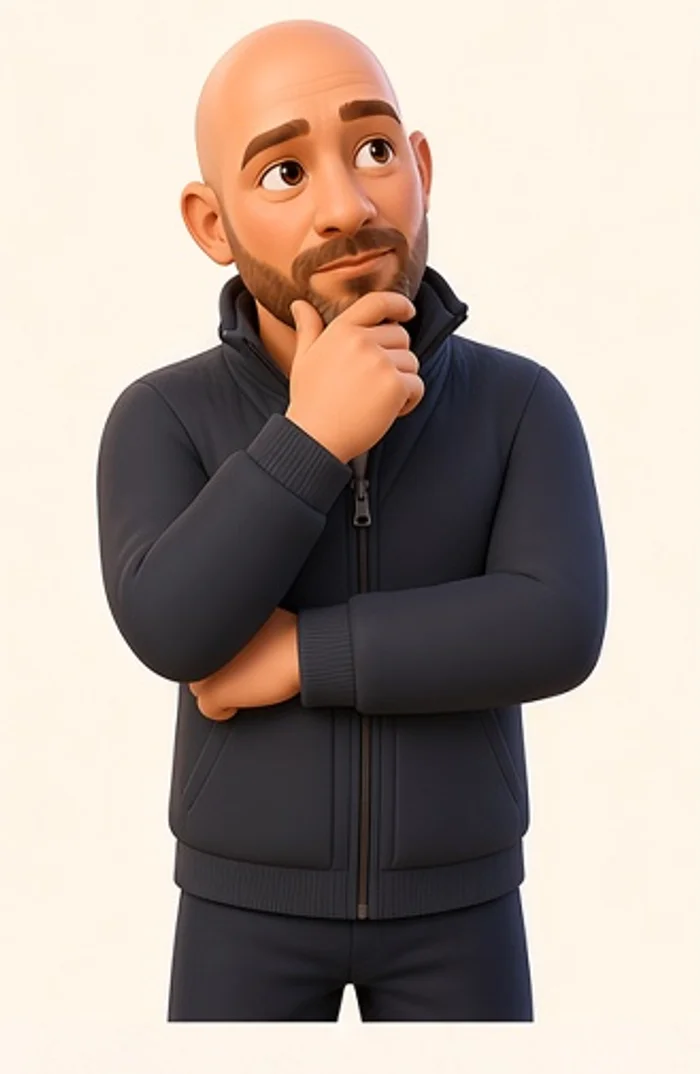
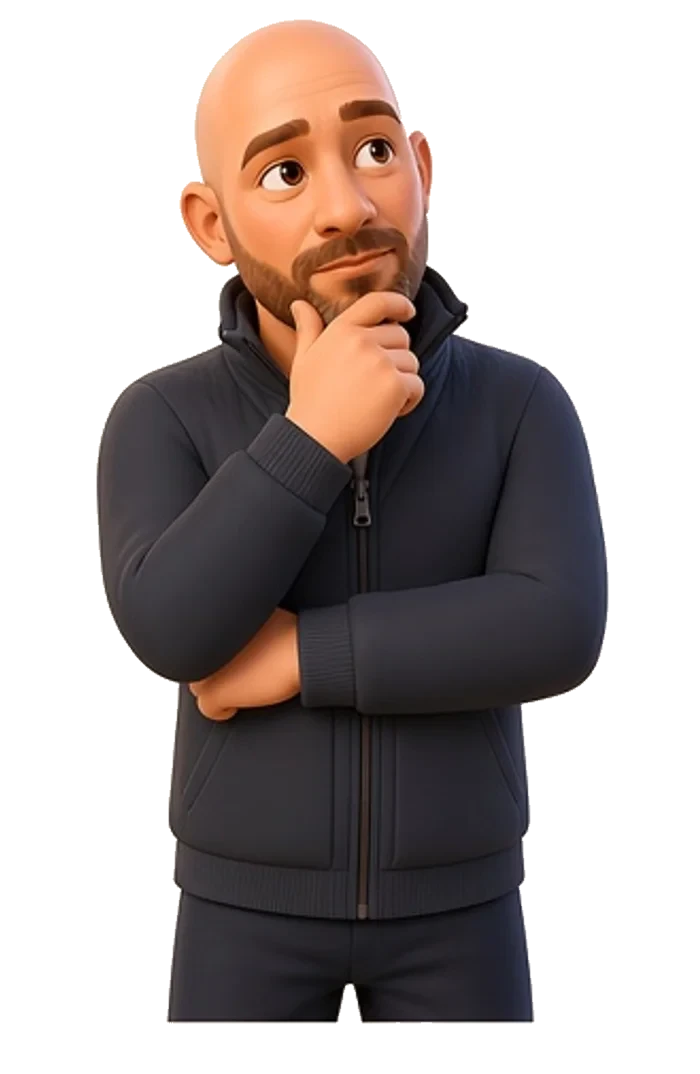
Mascotte-poses met transparante achtergrond (flood fill vanaf de randen, bordje en shirt intact); hero gebruikt nu de transparante duimen-pose

diff --git a/app/page.tsx b/app/page.tsx
@@ -117,7 +117,7 @@ export default function Home() {
           <div className="float-card min-w-0">
             <div className="rounded-3xl bg-[#fdf6ea] p-8 text-center shadow-sm border border-stone-200">
               {/* eslint-disable-next-line @next/next/no-img-element */}
-              <img src="/hero-test.jpg" alt="De WordSwap-beheerder steekt twee duimen op" className="mx-auto max-h-[26rem] w-auto max-w-full" />
+              <img src="/mascotte/duimen.webp" alt="De WordSwap-beheerder steekt twee duimen op" className="mx-auto max-h-[26rem] w-auto max-w-full" />
               <div className="mt-5 flex justify-center sm:scale-125">
                 <Logo />
               </div>
